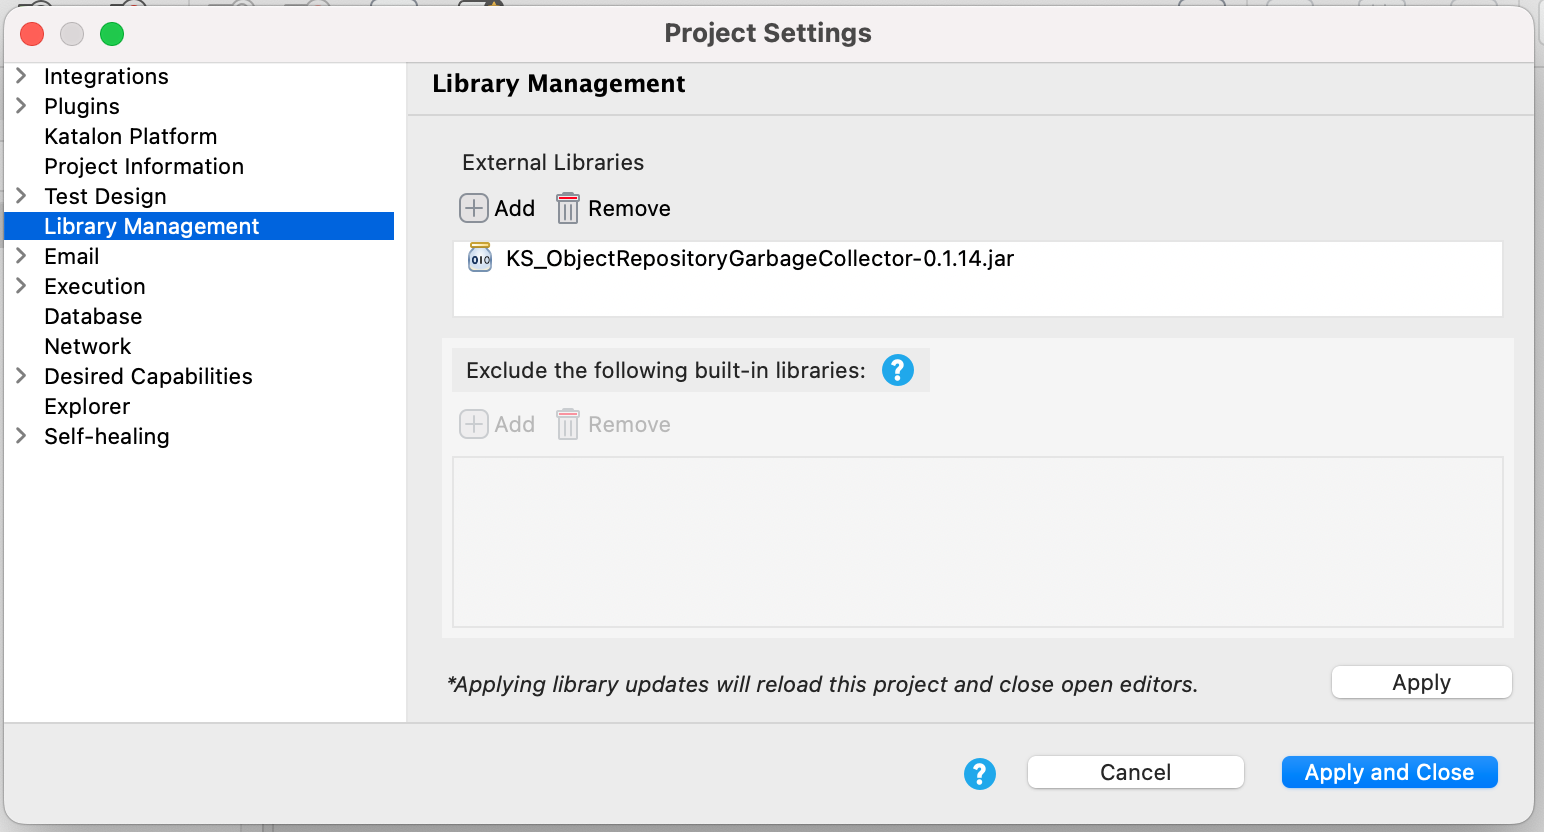
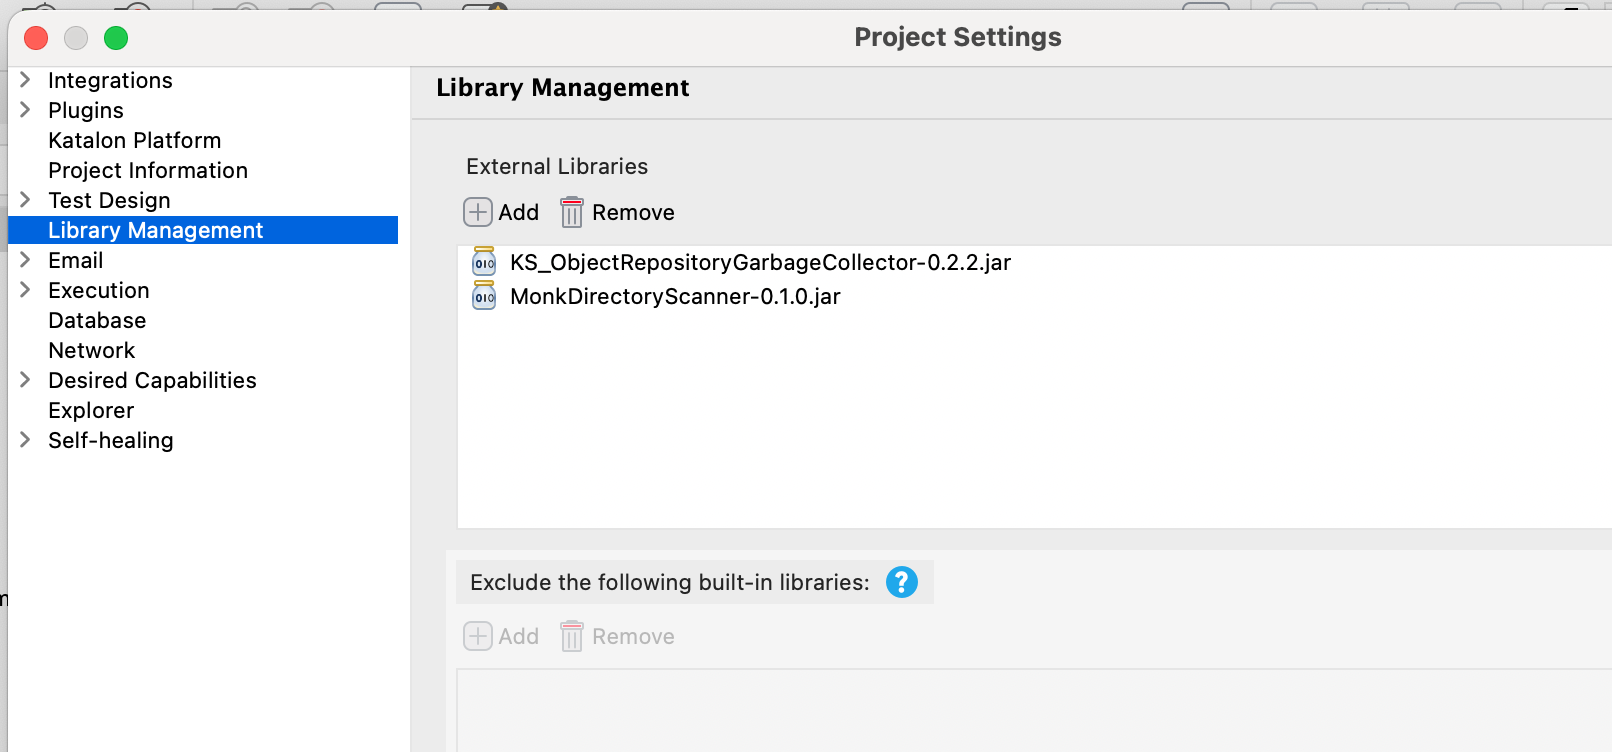
started authoring the docs

diff --git a/docs/index.md b/docs/index.md
@@ -1,10 +1,14 @@
 # \[Katalon Studio\] Object Repository Garbage Collection
 
+back to the [repository](https://github.com/kazurayam/KS_ObjectRepositoryGarbageCollector)
+
 ## Problem to solve
 
 Let me start with explaining what problem this library is designed to solve.
 
 I will present a sample Katalon Studio project that has a Test Case named [Test Cases/main/TC1](https://github.com/kazurayam/ObjectRepositoryGarbageCollection/blob/develop/Scripts/main/TC1/Script1677544889443.groovy). The script is as follows:
+
+    // Test Cases/main/TC1
 
     import static com.kms.katalon.core.testobject.ObjectRepository.findTestObject
     import com.kms.katalon.core.model.FailureHandling as FailureHandling
@@ -14,120 +18,133 @@ I will present a sample Katalon Studio project that has a Test Case named [Test 
 
     WebUI.navigateToUrl('https://katalon-demo-cura.herokuapp.com/')
 
-    WebUI.click(findTestObject('Object Repository/Page_CURA Healthcare Service/a_Make Appointment'))
+    WebUI.click(findTestObject('Object Repository/main/Page_CURA Healthcare Service/a_Make Appointment'))
 
     WebUI.waitForElementPresent(findTestObject('Object Repository/Page_CURA Healthcare Service/a_Mark Appointments'), 3, FailureHandling.OPTIONAL)
 
-    WebUI.setText(findTestObject('Object Repository/Page_CURA Healthcare Service/input_Username_username'), 'John Doe')
+    WebUI.setText(findTestObject('Object Repository/main/Page_CURA Healthcare Service/input_Username_username'), 'John Doe')
 
-    WebUI.setEncryptedText(findTestObject('Object Repository/Page_CURA Healthcare Service/input_Password_password'), 'g3/DOGG74jC3Flrr3yH+3D/yKbOqqUNM')
+    WebUI.setEncryptedText(findTestObject('Object Repository/main/Page_CURA Healthcare Service/input_Password_password'), 'g3/DOGG74jC3Flrr3yH+3D/yKbOqqUNM')
 
-    WebUI.click(findTestObject('Object Repository/Page_CURA Healthcare Service/button_Login'))
+    WebUI.click(findTestObject('Object Repository/main/Page_CURA Healthcare Service/button_Login'))
 
-    WebUI.selectOptionByValue(findTestObject('Object Repository/Page_CURA Healthcare Service/select_Tokyo CURA Healthcare Center        _5b4107'), 
+    WebUI.selectOptionByValue(findTestObject('Object Repository/main/Page_CURA Healthcare Service/select_Tokyo CURA Healthcare Center        _5b4107'), 
         'Hongkong CURA Healthcare Center', true)
 
-    WebUI.click(findTestObject('Object Repository/Page_CURA Healthcare Service/input_Apply for hospital readmission_hospit_63901f'))
+    WebUI.click(findTestObject('Object Repository/main/Page_CURA Healthcare Service/input_Apply for hospital readmission_hospit_63901f'))
 
-    WebUI.click(findTestObject('Object Repository/Page_CURA Healthcare Service/input_Medicaid_programs'))
+    WebUI.click(findTestObject('Object Repository/main/Page_CURA Healthcare Service/input_Medicaid_programs'))
 
-    WebUI.click(findTestObject('Object Repository/Page_CURA Healthcare Service/input_Visit Date'))
+    WebUI.click(findTestObject('Object Repository/main/Page_CURA Healthcare Service/input_Visit Date'))
 
-    WebUI.setText(findTestObject('Object Repository/Page_CURA Healthcare Service/input_Visit Date'), "20230325")
+    WebUI.setText(findTestObject('Object Repository/main/Page_CURA Healthcare Service/input_Visit Date'), "20230325")
 
-    WebUI.setText(findTestObject('Object Repository/Page_CURA Healthcare Service/textarea_Comment_comment'), 'This is a comment')
+    WebUI.setText(findTestObject('Object Repository/main/Page_CURA Healthcare Service/textarea_Comment_comment'), 'This is a comment')
 
-    WebUI.click(findTestObject('Object Repository/Page_CURA Healthcare Service/button_Book Appointment'))
+    WebUI.click(findTestObject('Object Repository/main/Page_CURA Healthcare Service/button_Book Appointment'))
 
-    WebUI.click(findTestObject('Object Repository/Page_CURA Healthcare Service/a_Go to Homepage'))
+    WebUI.click(findTestObject('Object Repository/main/Page_CURA Healthcare Service/a_Go to Homepage'))
 
-This script contains lines with fragment `findTestObject(…)`. A call `findTestObject(…)` method refers to a **Test Object**. If you read the script, you would find that it contains 13 lines with `findTestObject(…)` call. However, if you read it carefully, you will find that some lines are referring to the same Test Objects. In fact, this script refers to 11 Test objects.
+This script contains lines with fragment `findTestObject(…)`. A call `findTestObject(…)` method refers to a **Test Object**. If you read the script, you would find that it contains 13 lines with `findTestObject(…)` call. However, if you read it carefully, you will find this script refers to 11 Test objects.
 
-On the other hand, you can look at the `Object Repository` directory in the Katalon Studio GUI. The directory tree would look like this:
+Now let’s look at the `Object Repository` directory. In the Katalon Studio GUI, the directory tree looks like this:
 
-![Object Repository with 15 Test Objects](https://kazurayam.github.io/ObjectRepositoryGarbageCollection/images/1_1_ObjectRepositoryContains15TestObjects.png)
+![Object Repository with 15 Test Objects](https://kazurayam.github.io/KS_ObjectRepositoryGarbageCollector/images/1_1_ObjectRepositoryContains15TestObjects.png)
 
-You can find that in the `Object Repository` there are 15 Test Objects defined.
+The `Object Repository` there are 15 Test Objects defined.
 
-**Problem** : There are 15 Test Objects defined, whereas 11 Test Objects are used by Test Cases. 15 minus 11 = 4 Test Objects are not used by Test Cases. In other words, there are 4 garbages. *How can you tell which Test Objects are garbages?*
+On the other hand, I carefully read all Test Case scripts, and I found that only 11 Test Objects are actually refered to by Test Cases. 15 minus 11 = 4 Test Objects are not used. These are garbages. Now I want to clean up the Object Repository.
 
-This sample Katalon Studio project has just 15 Test Objects. It is a small project. I believe that many Katalon users have larger projects with 50 Test Objects, 100, 300, … possibly even more. The more Test Objects you have, the more garbages you would have. The more garbages you have, the more it becomes difficult to find them. *Large scale Katalon Studio projects always contain a lot of garbages*
+**Problem** : *How can I tell which Test Objects are garbages? How can I be sure each Test Objects are safe to delete?*
 
-In order to keep Katalon projects maintainable, users would want to remove the garbages. But they do not want to break their projects. They definitely want a tool that provides a list of unused Test Objects.
+This sample Katalon Studio project is a small one; it has just 15 Test Objects. I believe that many Katalon users have far larger projects with 100 Test Objects, 200, 3000, … possibly even more. The more Test Objects you have, the more garbages you would have. The more garbages you have, the more it becomes difficult to maintain the project clean.
 
-*Unfortunately Katalon Studio provides no such tool that shows you a list of unused Test Objects.*
+Therefore I have developed this ObjectRepositoryGarbageCollector class, which will show the list of unused Test Objects.
 
-Therefore I have developed it.
-== Solution
+## Solution
 
-### How to install the library
+### Environment
 
-You can download the jar from the \[Releases\](<https://github.com/kazurayam/KS_ObjectRepositoryGarbageCollector/releases>) page. Download the `KS_ObjectRepositoryGarbageCollector-x.x.x.jar`; locate it into the `Driviers` folder of your local Katalon Studio project.
+I developed this project using the following environment:
 
-In order to confirm if you have the library, open your project in Katalon Studio, open "Project" &gt; "Settings" to check the "Library Management". In the dialog, the jar should be found in the dialog:
+-   macOS Sonoma 14.7.4
 
-![2 1 LibraryManagement](https://kazurayam.github.io/KS_ObjectRepositoryGarbageCollector/images/2_1_LibraryManagement.png)
+-   Katalon Studio Free v10.1.0 which bundles JDK17
 
-### A demonstration: run the ObjectRepositoryGarbageCollector
+The KS\_ObjectRepositoryGargageCollecor-x.x.x.jar requires Katalon Studio v10 and newer.
 
-Here I made a script `Test Cases/ObjectRepositoryGarbageCollector/GC1`:
+It wouldn’t run on v9 and older due to JDK version.
 
-    import java.nio.file.Files
-    import java.nio.file.Path
-    import java.nio.file.Paths
+The jar would run in Katalon Runtime Engine not only in Katalon Studio.
+
+### Installation
+
+How to get started with the **Object Repository Garbage Collector** in your own Katalon Studio project?
+
+1.  Visit the [KS\_ObjectRepositoryGarbageCollector, Releases](https://github.com/kazurayam/KS_ObjectRepositoryGarbageCollector/releases) page. Identify the latest release. Find the `KS_ObjectRepositoryGarbageCollector-x.x.x.jar` attached to each release. Download the jar, save it into the `Drivers` folder of your local Katalon Studio project.
+
+2.  Visit the [MonkDirectoryScanner, Releases](https://github.com/kazurayam/MonkDirectoryScanner/releases) page. Identify the latest release. Find the `MonkDirectoryScanner-x.x.x.jar` attached to each release. Download the jar, save it into the `Drivers` folder of your local Katalon Studio project.
+
+3.  Close your project and reopen it so that your Katalon Studio recognize the new jar files.
+
+4.  Open the "Project" &gt; "Settings", "Library Management" dialog. Check if 2 jars are there: ![2 1 LibraryManagement](https://kazurayam.github.io/KS_ObjectRepositoryGarbageCollector/images/2_1_LibraryManagement.png)
+
+5.  You want to create a Test Case to run the **garbage collector** class. You can copy & reuse the code [Test Cases/demo/ObjectRepositoryGarbageCollector/ORGC\_jsonifyGarbages](https://github.com/kazurayam/KS_ObjectRepositoryGarbageCollector/blob/develop/Scripts/demo/ObjectRepositoryGarbageCollector/ORGC_jsonifyGarbages/Script1743835392014.groovy). Thes Test Case should run in any project.
+
+6.  You are done! Run the test case and see the output in the console.
+
+## ObjectRepositoryGarbageCollector class usages
+
+### ORGC\_jsonifyGarbages
+
+#### Test Case script
+
+`Test Cases/demo/ObjectRepositoryGarbageCollector/ORGC_jsonifyGarbages`:
 
     import com.kazurayam.ks.testobject.gc.ObjectRepositoryGarbageCollector
-    import com.kms.katalon.core.configuration.RunConfiguration
 
-    import demo.Reporter
+    import groovy.json.JsonOutput
 
     /**
-     * outputs a JSON file which contains a list of garbage Test Objects
-     * in the Object Repository directory.
-     * A garbage Test Object is a Test Object which is unused by any of Test Cases.
+     * A demonstration of ObjectRepositoryGarbageCollector, the simplest case
+     *
+     * This TestCase outputs a JSON file which contains a list of garbage Test Objects
+     * in the "Object Repository" folder.
+     *
+     * A "garbage" means a Test Object which is not used by any scripts
+     * in the "Test Cases" folder.
      */
 
-    // the Garbage Collector instance will scan the Object Repository directory
-    // and the Scripts directory
-    ObjectRepositoryGarbageCollector gc = new ObjectRepositoryGarbageCollector.Builder().build()
+    // the Garbage Collector instance will scan 2 folders: "Object Repository" and "Test Cases".
 
-    // the gc.garbages() method call can compile a list of garbate Test Objects,
-    // output the information in a JSON string
-    String json = gc.garbages()
+    // Amongst the folders in the "Object Repository" folder, the TestObjectsCase scripts contained 
+    // in the subfolder that match "**/Page_CURA*" will be selected, and others are ignored
+    ObjectRepositoryGarbageCollector gc = 
+            new ObjectRepositoryGarbageCollector.Builder()
+                .includeFolder("**/*")
+                .build()
 
-    // write it into a file
-    Reporter rp = new Reporter("ObjectRepositoryGarbageCollector/GC1.adoc")
-    rp.report("=== Output of TestCases/demo/ObjectRepositoryGarbageCollector/GC1\n",
-        "gc.garbages() returned\n",
-        "```",
-        json,
-        "```")
+    // gc.jsonifyGarbages() triggers scanning through the entire "Object Repository".
+    // All references from TestCase scripts to TestObjects will be identified.
+    // Consequently, it can result a list of unused TestObjects.
+    // Will output the result into a JSON string
+    String json = gc.jsonifyGarbages()
 
-When I run the script in Katalon Studio, I got the following output in the console:
+    // just print the JSON into the console
+    println JsonOutput.prettyPrint(json)
 
-### Output of TestCases/demo/ObjectRepositoryGarbageCollector/GC1
+#### Output
 
-gc.garbages() returned
+#### Explanation
 
-    {
-        "stats": {
-            "Number of TestCases": 30,
-            "Number of TestObjects": 15,
-            "Duration seconds": 2.214
-        },
-        "Number of garbages": 4,
-        "garbages": [
-            {
-                "TestObjectId": "Page_CURA Healthcare Service/a_Foo"
-            },
-            {
-                "TestObjectId": "Page_CURA Healthcare Service/td_28"
-            },
-            {
-                "TestObjectId": "Page_CURA Healthcare Service2/a_Go to Homepage"
-            },
-            {
-                "TestObjectId": "Page_CURA Healthcare Service2/td_28"
-            }
-        ]
-    }
+1.  The script will look into the entire "Object Repository" folder and check the contained TestObjects if used or not by any of TestCase scripts
+
+2.  there are 30 Test Cases in the `Test Cases` folder
+
+3.  there are 15 Test Objects in the `Object Repository` folder
+
+4.  amongst 15, there are 4 unused Test Objects
+
+5.  The script took 1.6 seconds to finish.
+
+## ExtendedObjectRepository class usages

diff --git a/README.md b/README.md
@@ -91,7 +91,7 @@ This library supports more:
 3. It can report all *Backward Reference*s, which is a list of TestObjects associated with list of ForwardReferences to each TestObject.
 4. It can report all *Locator*s (XPath, CSS Selector) associated with list of duplicating TestObjects that implement the same locator.
 
-I will write a more detailed documentation with sample codes later.
+See [the doc](https://kazurayam.github.io/KS_ObjectRepositoryGarbageCollector/) for more detail.
 
 ## Disclaimer
 
